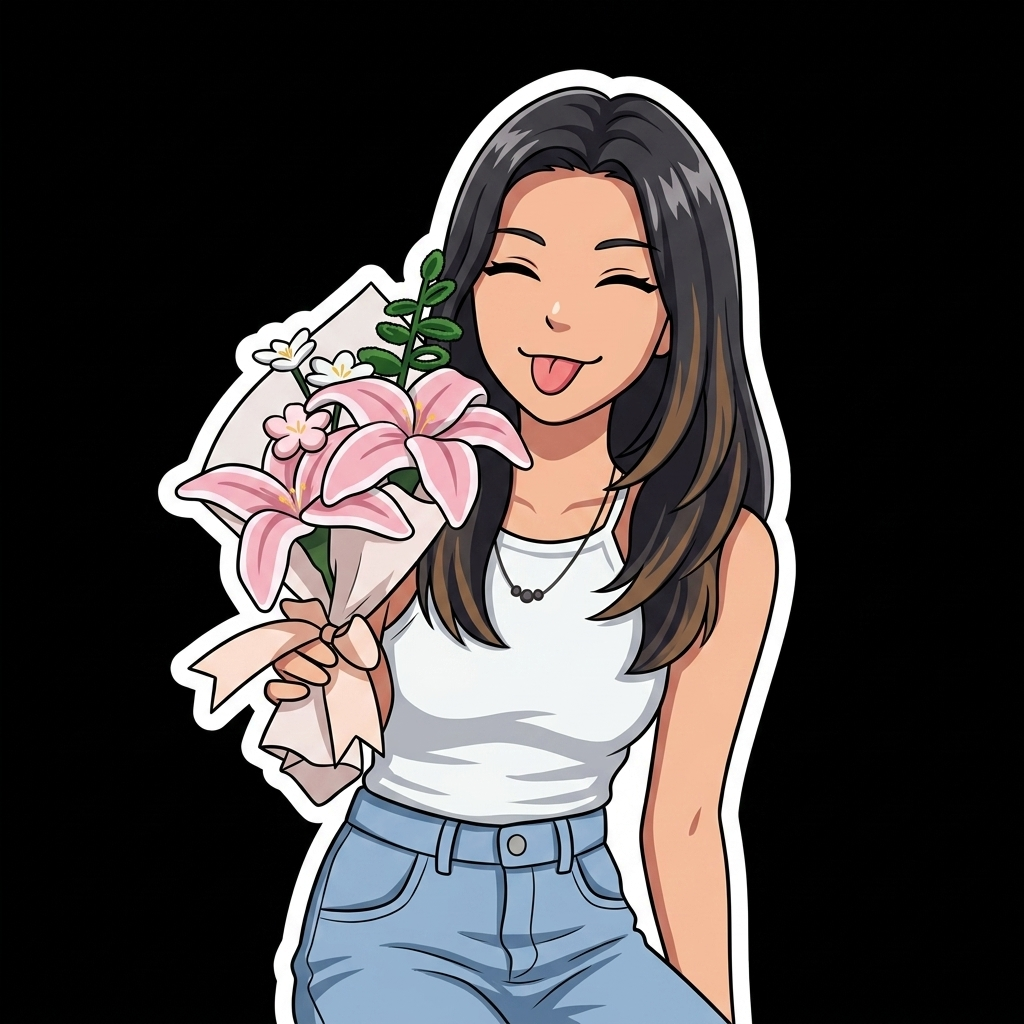
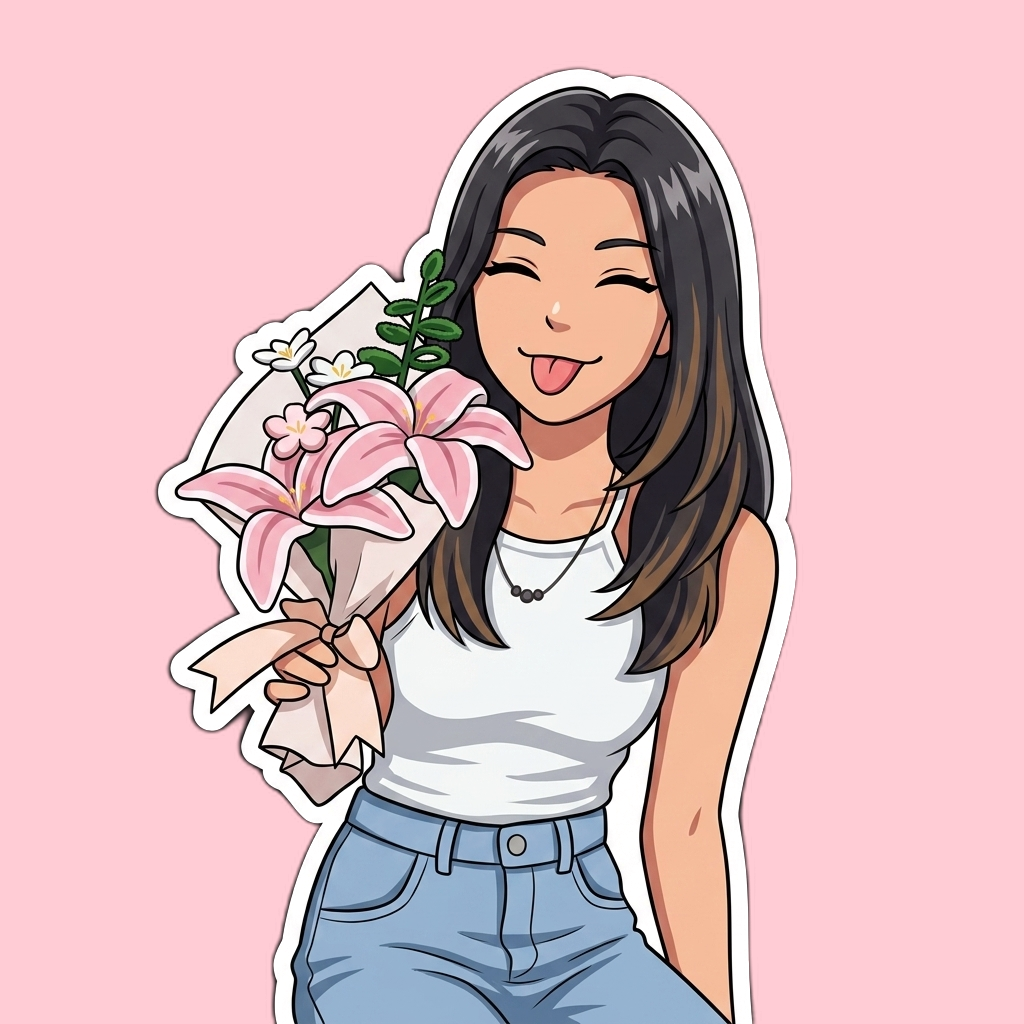
style: cambiar fondo de caricatura de Ali de negro a tono rosado armónico

diff --git a/styles.css b/styles.css
@@ -108,7 +108,7 @@ body {
     object-fit: contain;
     border-radius: 50%;
     border: 6px solid white; /* Efecto borde pegatina */
-    background: #000;
+    background: #FFCCD5;
     box-shadow: 0 10px 25px rgba(255, 107, 139, 0.18), 0 2px 5px rgba(0,0,0,0.05);
     transition: all 0.3s ease;
 }
